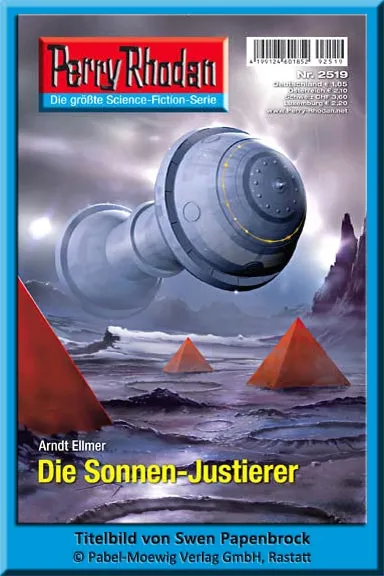
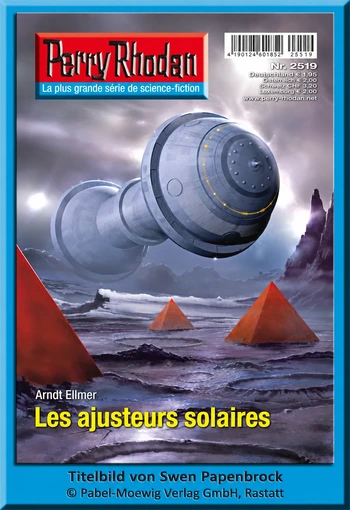
fix: translate covers 2513-2522

diff --git a/src/content/chapitres/de-2514.md b/src/content/chapitres/de-2514.md
@@ -4,11 +4,11 @@ cycleNumber: 36
 chapterNumber: 2514
 type: translation
 originalTitle: "Ein Fall für das Galaktikum"
-cover: "/images/covers/de-2514.webp"
+cover: "/images/covers/de-2514.webp?v=20261116-2514-fr"
 auteur: "Arndt Ellmer"
 parution: "2009-11-06"
 statut: traduit
-titleFr: "Perry 2514 – Une affaire pour le Galactikum"
+titleFr: "Perry 2514 - Une affaire pour le Galactikum"
 ---
 
 Une affaire pour le Galactikum

diff --git a/src/content/chapitres/de-2521.md b/src/content/chapitres/de-2521.md
@@ -4,11 +4,11 @@ cycleNumber: 36
 chapterNumber: 2521
 type: translation
 originalTitle: "Kampf um KREUZRAD"
-cover: "/images/covers/de-2521.webp"
+cover: "/images/covers/de-2521.webp?v=20261116-2521-fr"
 auteur: "Michael Marcus Thurner"
 parution: "2009-12-25"
 statut: traduit
-titleFr: "La lutte pour KREUZRAD"
+titleFr: "Perry 2521 - La lutte pour KREUZRAD"
 ---
 
 N° 2521 – Michael Marcus Thurner – 2009

diff --git a/src/content/chapitres/de-2516.md b/src/content/chapitres/de-2516.md
@@ -4,11 +4,11 @@ cycleNumber: 36
 chapterNumber: 2516
 type: translation
 originalTitle: "Die Tauben von Thirdal"
-cover: "/images/covers/de-2516.webp"
+cover: "/images/covers/de-2516.webp?v=20261116-2516-fr"
 auteur: "Leo Lukas"
 parution: "2009-11-20"
 statut: traduit
-titleFr: "Perry 2516 - Les Pigeons de Thirdal"
+titleFr: "Perry 2516 - Les pigeons de Thirdal"
 ---
 
 Les Pigeons de Thirdal

diff --git a/src/content/chapitres/de-2519.md b/src/content/chapitres/de-2519.md
@@ -4,11 +4,11 @@ cycleNumber: 36
 chapterNumber: 2519
 type: translation
 originalTitle: "Die Sonnen-Justierer"
-cover: "/images/covers/de-2519.webp"
+cover: "/images/covers/de-2519.webp?v=20261116-2519-fr"
 auteur: "Arndt Ellmer"
 parution: "2009-12-11"
 statut: traduit
-titleFr: "Les Ajusteurs solaires"
+titleFr: "Perry 2519 - Les ajusteurs solaires"
 ---
 
 N° 2519 – Arndt Ellmer – 2009

diff --git a/src/content/chapitres/de-2513.md b/src/content/chapitres/de-2513.md
@@ -4,11 +4,11 @@ cycleNumber: 36
 chapterNumber: 2513
 type: translation
 originalTitle: "Der verborgene Hof"
-cover: "/images/covers/de-2513.webp"
+cover: "/images/covers/de-2513.webp?v=20261116-2513-fr"
 auteur: "Christian Montillon"
 parution: "2009-10-30"
 statut: traduit
-titleFr: "Perry 2513 – *Le Palais Caché*"
+titleFr: "Perry 2513 - Le palais caché"
 ---
 
 *Le Palais Caché*

diff --git a/src/content/chapitres/de-2520.md b/src/content/chapitres/de-2520.md
@@ -4,7 +4,7 @@ cycleNumber: 36
 chapterNumber: 2520
 type: translation
 originalTitle: "Grenzgängerin des Schleiers"
-cover: "/images/covers/de-2520.webp"
+cover: "/images/covers/de-2520.webp?v=20261116-2520-fr"
 auteur: "Hubert Haensel"
 parution: "2009-12-18"
 statut: traduit

diff --git a/src/content/chapitres/de-2518.md b/src/content/chapitres/de-2518.md
@@ -4,7 +4,7 @@ cycleNumber: 36
 chapterNumber: 2518
 type: translation
 originalTitle: "Patrouille der Haluter"
-cover: "/images/covers/de-2518.webp"
+cover: "/images/covers/de-2518.webp?v=20261116-2518-fr"
 auteur: "Christian Montillon"
 parution: "2009-12-04"
 statut: traduit

diff --git a/src/content/chapitres/de-2515.md b/src/content/chapitres/de-2515.md
@@ -4,7 +4,7 @@ cycleNumber: 36
 chapterNumber: 2515
 type: translation
 originalTitle: "Operation Hathorjan"
-cover: "/images/covers/de-2515.webp"
+cover: "/images/covers/de-2515.webp?v=20261116-2515-fr"
 auteur: "Rainer Castor"
 parution: "2009-11-13"
 statut: traduit

diff --git a/src/content/chapitres/de-2517.md b/src/content/chapitres/de-2517.md
@@ -4,7 +4,7 @@ cycleNumber: 36
 chapterNumber: 2517
 type: translation
 originalTitle: "Die Prototyp-Armee"
-cover: "/images/covers/de-2517.webp"
+cover: "/images/covers/de-2517.webp?v=20261116-2517-fr"
 auteur: "Arndt Ellmer"
 parution: "2009-11-27"
 statut: traduit

diff --git a/src/content/chapitres/de-2522.md b/src/content/chapitres/de-2522.md
@@ -4,7 +4,7 @@ cycleNumber: 36
 chapterNumber: 2522
 type: translation
 originalTitle: "Winter auf Wanderer"
-cover: "/images/covers/de-2522.webp"
+cover: "/images/covers/de-2522.webp?v=20261116-2522-fr"
 auteur: "Uwe Anton"
 parution: "2010-01-01"
 statut: traduit
